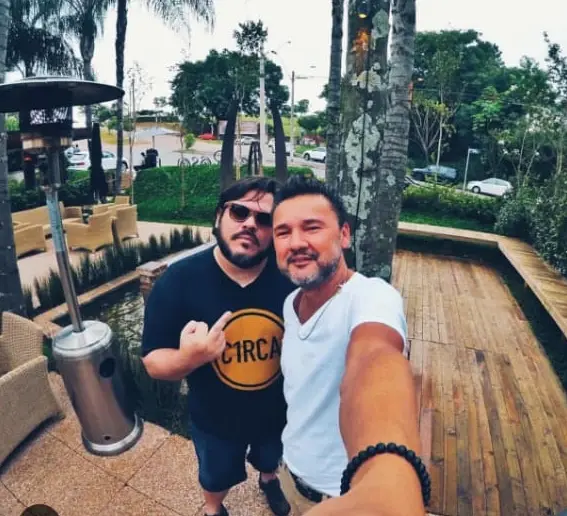
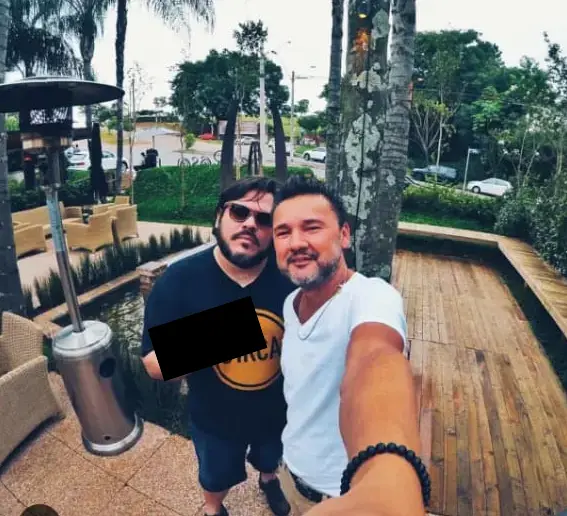
Stratesign: tarja na foto do mural
Claude-Session: https://claude.ai/code/session_01EkbmexqDCpQQHuW3EY4MYC

Changed region(s): [[0.2399, 0.5581, 0.4797, 0.7442]]

diff --git a/hg-envio/strat/index.html b/hg-envio/strat/index.html
@@ -30,7 +30,7 @@
 <meta name="twitter:image" content="https://stratesign.com.br/og.jpg">
 <link rel="preload" href="fonts/montserrat-latin-700-normal.woff2" as="font" type="font/woff2" crossorigin>
 <link rel="preload" href="media/dragao.jpg" as="image">
-<link rel="stylesheet" href="assets/site.css?v=19">
+<link rel="stylesheet" href="assets/site.css?v=20">
 <script type="application/ld+json">{"@context":"https://schema.org","@graph":[{"@type":["Organization","ProfessionalService"],"@id":"https://stratesign.com.br/#org","name":"Stratesign","alternateName":"Strat","url":"https://stratesign.com.br/","logo":"https://stratesign.com.br/icon-512.png","image":"https://stratesign.com.br/og.jpg","slogan":"A agência do imobiliário brasileiro.","description":"Agência de estratégia e design para o mercado imobiliário brasileiro: inteligência de mercado, marca e campanha para lançamentos, incorporadoras e loteadoras.","foundingDate":"2012","areaServed":{"@type":"Country","name":"Brasil"},"knowsAbout":["Branding imobiliário","Lançamento imobiliário","Inteligência de mercado imobiliário","Campanha de lançamento","Naming","Identidade visual"],"founder":[{"@id":"https://stratesign.com.br/#marcus"},{"@id":"https://stratesign.com.br/#sergio"}],"sameAs":["https://www.instagram.com/stratesign/"],"contactPoint":{"@type":"ContactPoint","contactType":"sales","telephone":"+55-11-96706-7100","url":"https://wa.me/5511967067100","availableLanguage":"Portuguese","areaServed":"BR"}},{"@type":"Person","@id":"https://stratesign.com.br/#marcus","name":"Marcus Araujo","jobTitle":"Estratégia","worksFor":{"@id":"https://stratesign.com.br/#org"},"image":"https://stratesign.com.br/img/marcus.jpg"},{"@type":"Person","@id":"https://stratesign.com.br/#sergio","name":"Sérgio Duh","jobTitle":"Direção criativa","worksFor":{"@id":"https://stratesign.com.br/#org"},"image":"https://stratesign.com.br/img/sergio.jpg","sameAs":["https://www.instagram.com/sergioduh/","https://sergioduh.com/"]},{"@type":"WebSite","@id":"https://stratesign.com.br/#site","url":"https://stratesign.com.br/","name":"Stratesign","inLanguage":"pt-BR","publisher":{"@id":"https://stratesign.com.br/#org"}},{"@type":"WebPage","@id":"https://stratesign.com.br/#home","url":"https://stratesign.com.br/","name":"Stratesign — A agência do imobiliário brasileiro","isPartOf":{"@id":"https://stratesign.com.br/#site"},"about":{"@id":"https://stratesign.com.br/#org"},"primaryImageOfPage":"https://stratesign.com.br/og.jpg","inLanguage":"pt-BR"}]}</script>
 </head>
 <body>
@@ -58,7 +58,7 @@
     <div class="palco">
       <video class="drg" id="drg" poster="media/dragao.jpg" muted playsinline loop autoplay preload="metadata" aria-label="Carranca de dragão da Strat, esculpida e pintada com as cores do Brasil, girando"><source src="media/dragao.mp4" type="video/mp4"></video>
       <div class="filme" id="filme">
-        <video id="vid" src="media/abertura.mp4?v=19" poster="media/abertura.jpg" autoplay muted playsinline loop preload="auto" aria-label="Filme de portfólio: Grupo Taiwan, Vistas Joanópolis, SIMM Brasil, Marcus Araujo, MIXED e Reserva Canastra"></video>
+        <video id="vid" src="media/abertura.mp4?v=20" poster="media/abertura.jpg" autoplay muted playsinline loop preload="auto" aria-label="Filme de portfólio: Grupo Taiwan, Vistas Joanópolis, SIMM Brasil, Marcus Araujo, MIXED e Reserva Canastra"></video>
         <button type="button" class="pausa" id="pausa" aria-pressed="false">Pausar</button>
         <span class="somd" id="somh" hidden>Clique para ouvir</span>
       </div>
@@ -74,7 +74,7 @@
       <h2 class="rot" id="t-marcas">Cinco marcas, cinco trabalhos</h2>
       <ul class="lista" id="lista">
         <li class="mi" data-k="datastore">
-          <button type="button" class="mb" aria-expanded="false" aria-controls="p-datastore"><img src="img/l-datastore.png?v=19" width="294" height="125" alt="Datastore / SIMM Brasil" class="lg lg-datastore"></button>
+          <button type="button" class="mb" aria-expanded="false" aria-controls="p-datastore"><img src="img/l-datastore.png?v=20" width="294" height="125" alt="Datastore / SIMM Brasil" class="lg lg-datastore"></button>
           <div class="painel" id="p-datastore">
             <video muted playsinline loop preload="none" poster="media/m-datastore.jpg" data-src="media/m-datastore.mp4" aria-label="Filme do case Datastore / SIMM Brasil"></video>
             <div class="pel"></div><span class="somd" hidden>Clique para ouvir</span>
@@ -82,7 +82,7 @@
           </div>
         </li>
         <li class="mi" data-k="marcus">
-          <button type="button" class="mb" aria-expanded="false" aria-controls="p-marcus"><img src="img/l-marcus.png?v=19" width="254" height="68" alt="Marcus Araujo" class="lg lg-marcus"></button>
+          <button type="button" class="mb" aria-expanded="false" aria-controls="p-marcus"><img src="img/l-marcus.png?v=20" width="254" height="68" alt="Marcus Araujo" class="lg lg-marcus"></button>
           <div class="painel" id="p-marcus">
             <video muted playsinline loop preload="none" poster="media/m-marcus.jpg" data-src="media/m-marcus.mp4" aria-label="Filme do case Marcus Araujo"></video>
             <div class="pel"></div><span class="somd" hidden>Clique para ouvir</span>
@@ -122,9 +122,9 @@
     <div class="grade">
       <h2 class="dois" id="t-autores"><span>Marcus antecipa o movimento do mercado.</span> <b>Sérgio cria a marca que vai ocupar esse espaço.</b></h2>
       <div class="dupla">
-        <figure class="au"><div class="ft"><img src="img/marcus.jpg?v=19" alt="Marcus Araujo sentado, mãos unidas, sorrindo para a câmera" loading="lazy" decoding="async"></div>
+        <figure class="au"><div class="ft"><img src="img/marcus.jpg?v=20" alt="Marcus Araujo sentado, mãos unidas, sorrindo para a câmera" loading="lazy" decoding="async"></div>
           <figcaption><h3>Marcus Araujo <i>·</i> <span>Estratégia</span></h3><p>Pesquisador, autor de Meu Imóvel, Meu Mundo e curador do SIMM Brasil, Marcus estuda como os brasileiros querem morar. Na Strat, transforma os dados de demanda em decisões sobre produto, público e posicionamento.</p></figcaption></figure>
-        <figure class="au"><div class="ft"><img src="img/sergio.jpg?v=19" alt="Sérgio Duh ri, de perfil, num set de filmagem" loading="lazy" decoding="async"></div>
+        <figure class="au"><div class="ft"><img src="img/sergio.jpg?v=20" alt="Sérgio Duh ri, de perfil, num set de filmagem" loading="lazy" decoding="async"></div>
           <figcaption><h3>Sérgio Duh <i>·</i> <span>Direção criativa</span></h3><p>Brander e diretor de criação, Sérgio desenha marcas há mais de 25 anos. Liderou projetos no Brasil, nos Estados Unidos, na França e na Austrália. Professor convidado no curso de Marketing Imobiliário da USP, dá forma às decisões de estratégia, da primeira ideia de marca à campanha na rua.</p></figcaption></figure>
       </div>
       <dl class="prova">
@@ -179,6 +179,6 @@
     <p class="pe-c">© 2026 Stratesign · <a href="/artigos/">Artigos</a> · <a href="/privacidade">Privacidade</a></p>
   </div>
 </footer>
-<script src="assets/site.js?v=19" defer></script>
+<script src="assets/site.js?v=20" defer></script>
 </body>
 </html>

diff --git a/hg-envio/strat/assets/site.js b/hg-envio/strat/assets/site.js
@@ -1,7 +1,7 @@
 /* Stratesign 2026 · V3 — comportamento da home. Dados em dados/social.json e dados/artigos.json. */
 (function () {
   'use strict';
-  var V = '19';                 // sobe a cada troca de imagens ou dados, para furar o cache
+  var V = '20';                 // sobe a cada troca de imagens ou dados, para furar o cache
   var $ = function (s, r) { return (r || document).querySelector(s); };
   var $$ = function (s, r) { return Array.prototype.slice.call((r || document).querySelectorAll(s)); };
   var calmo = window.matchMedia('(prefers-reduced-motion: reduce)').matches;
